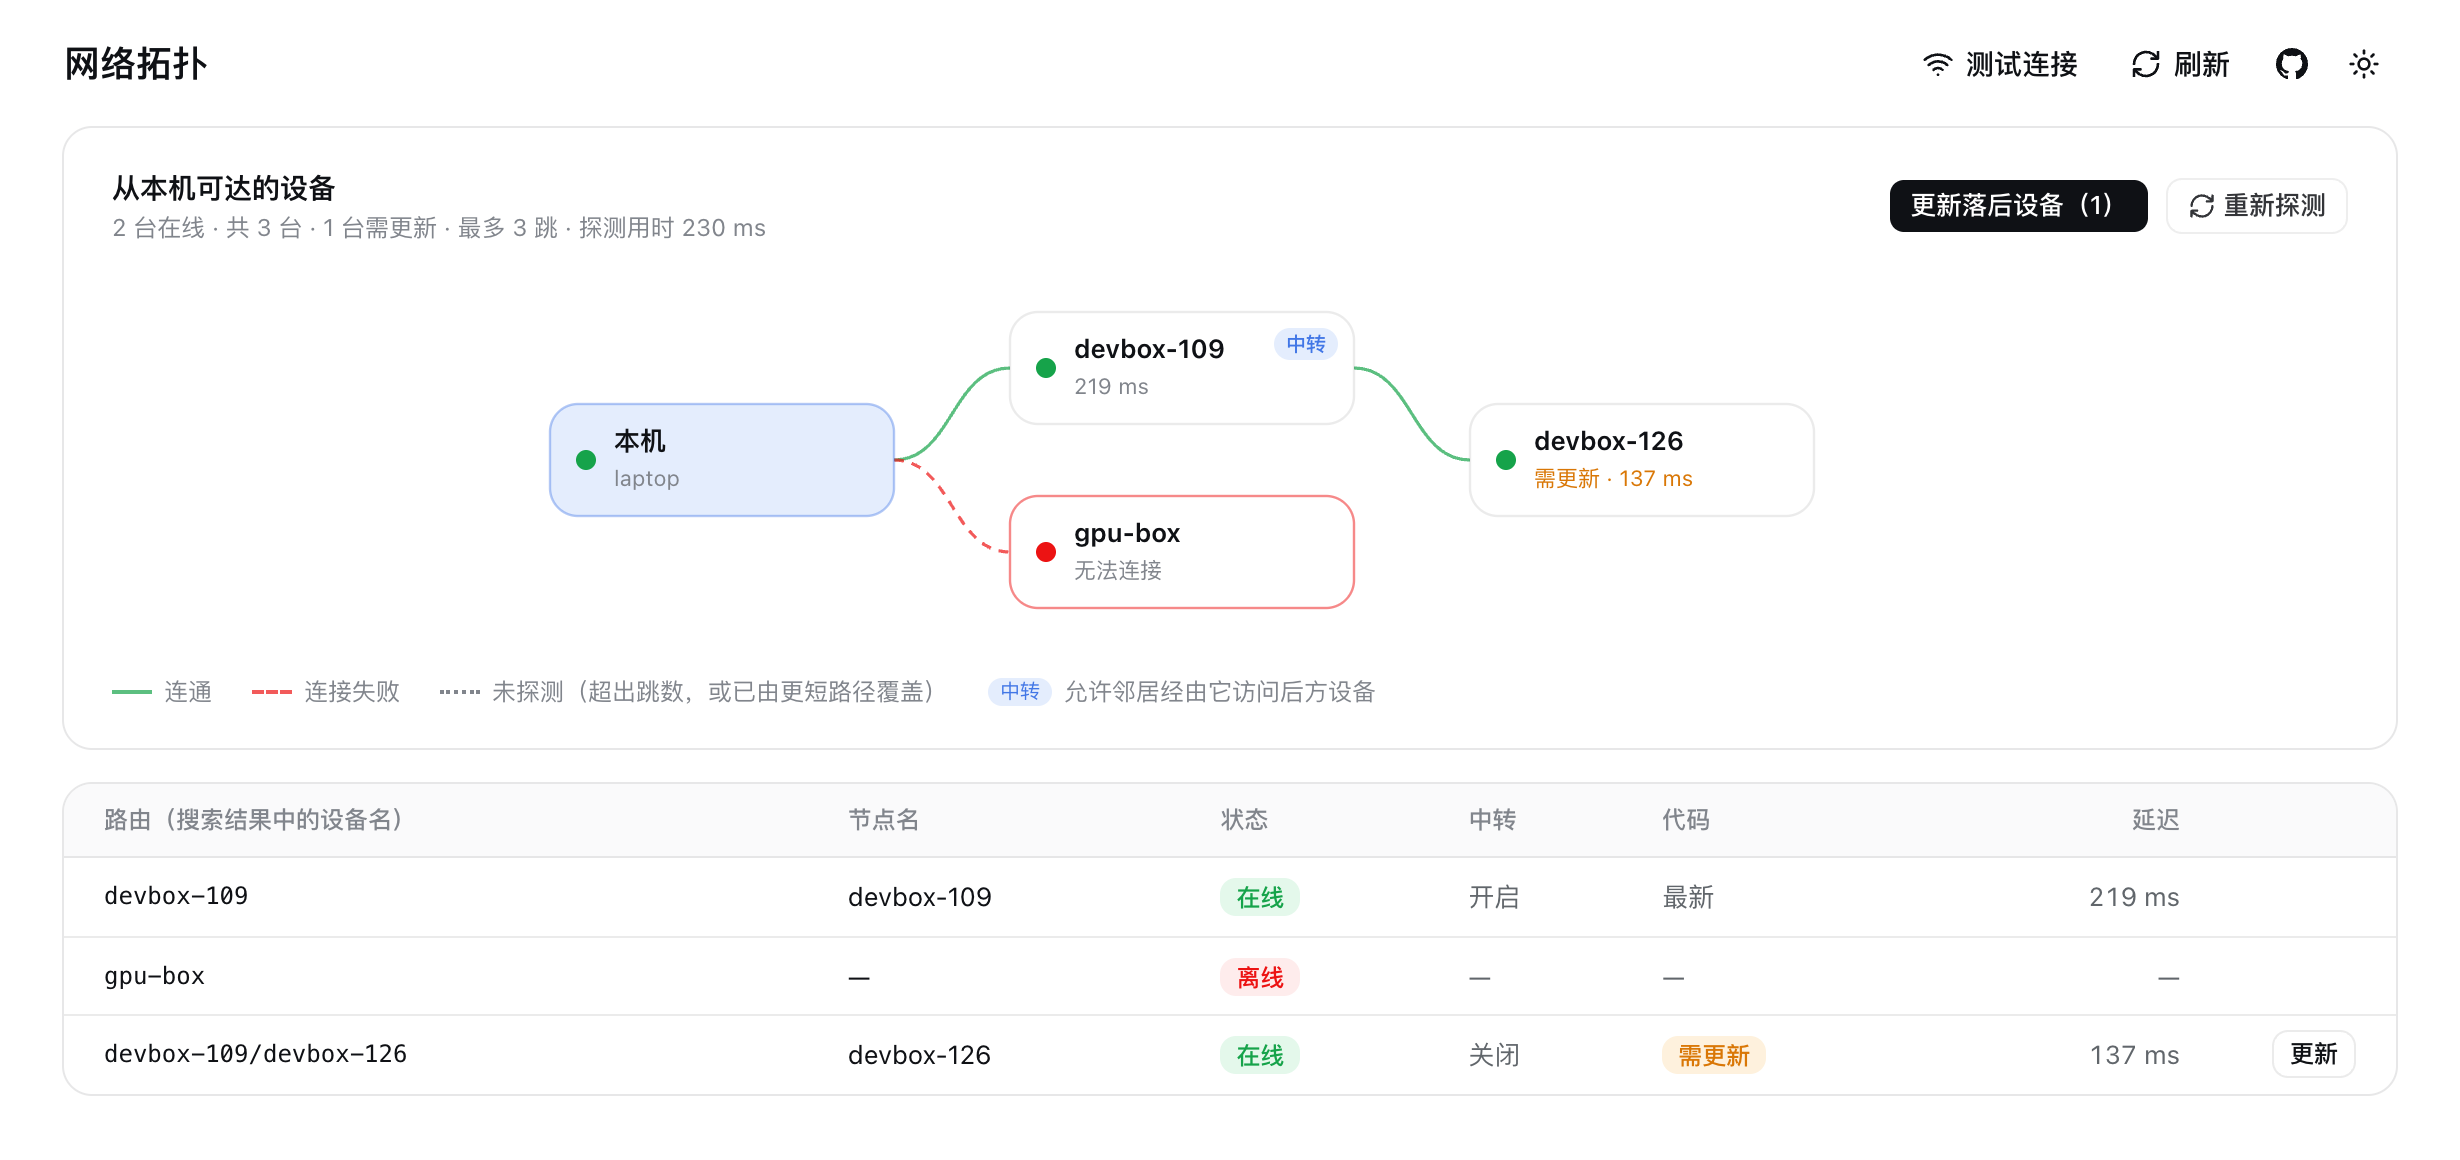
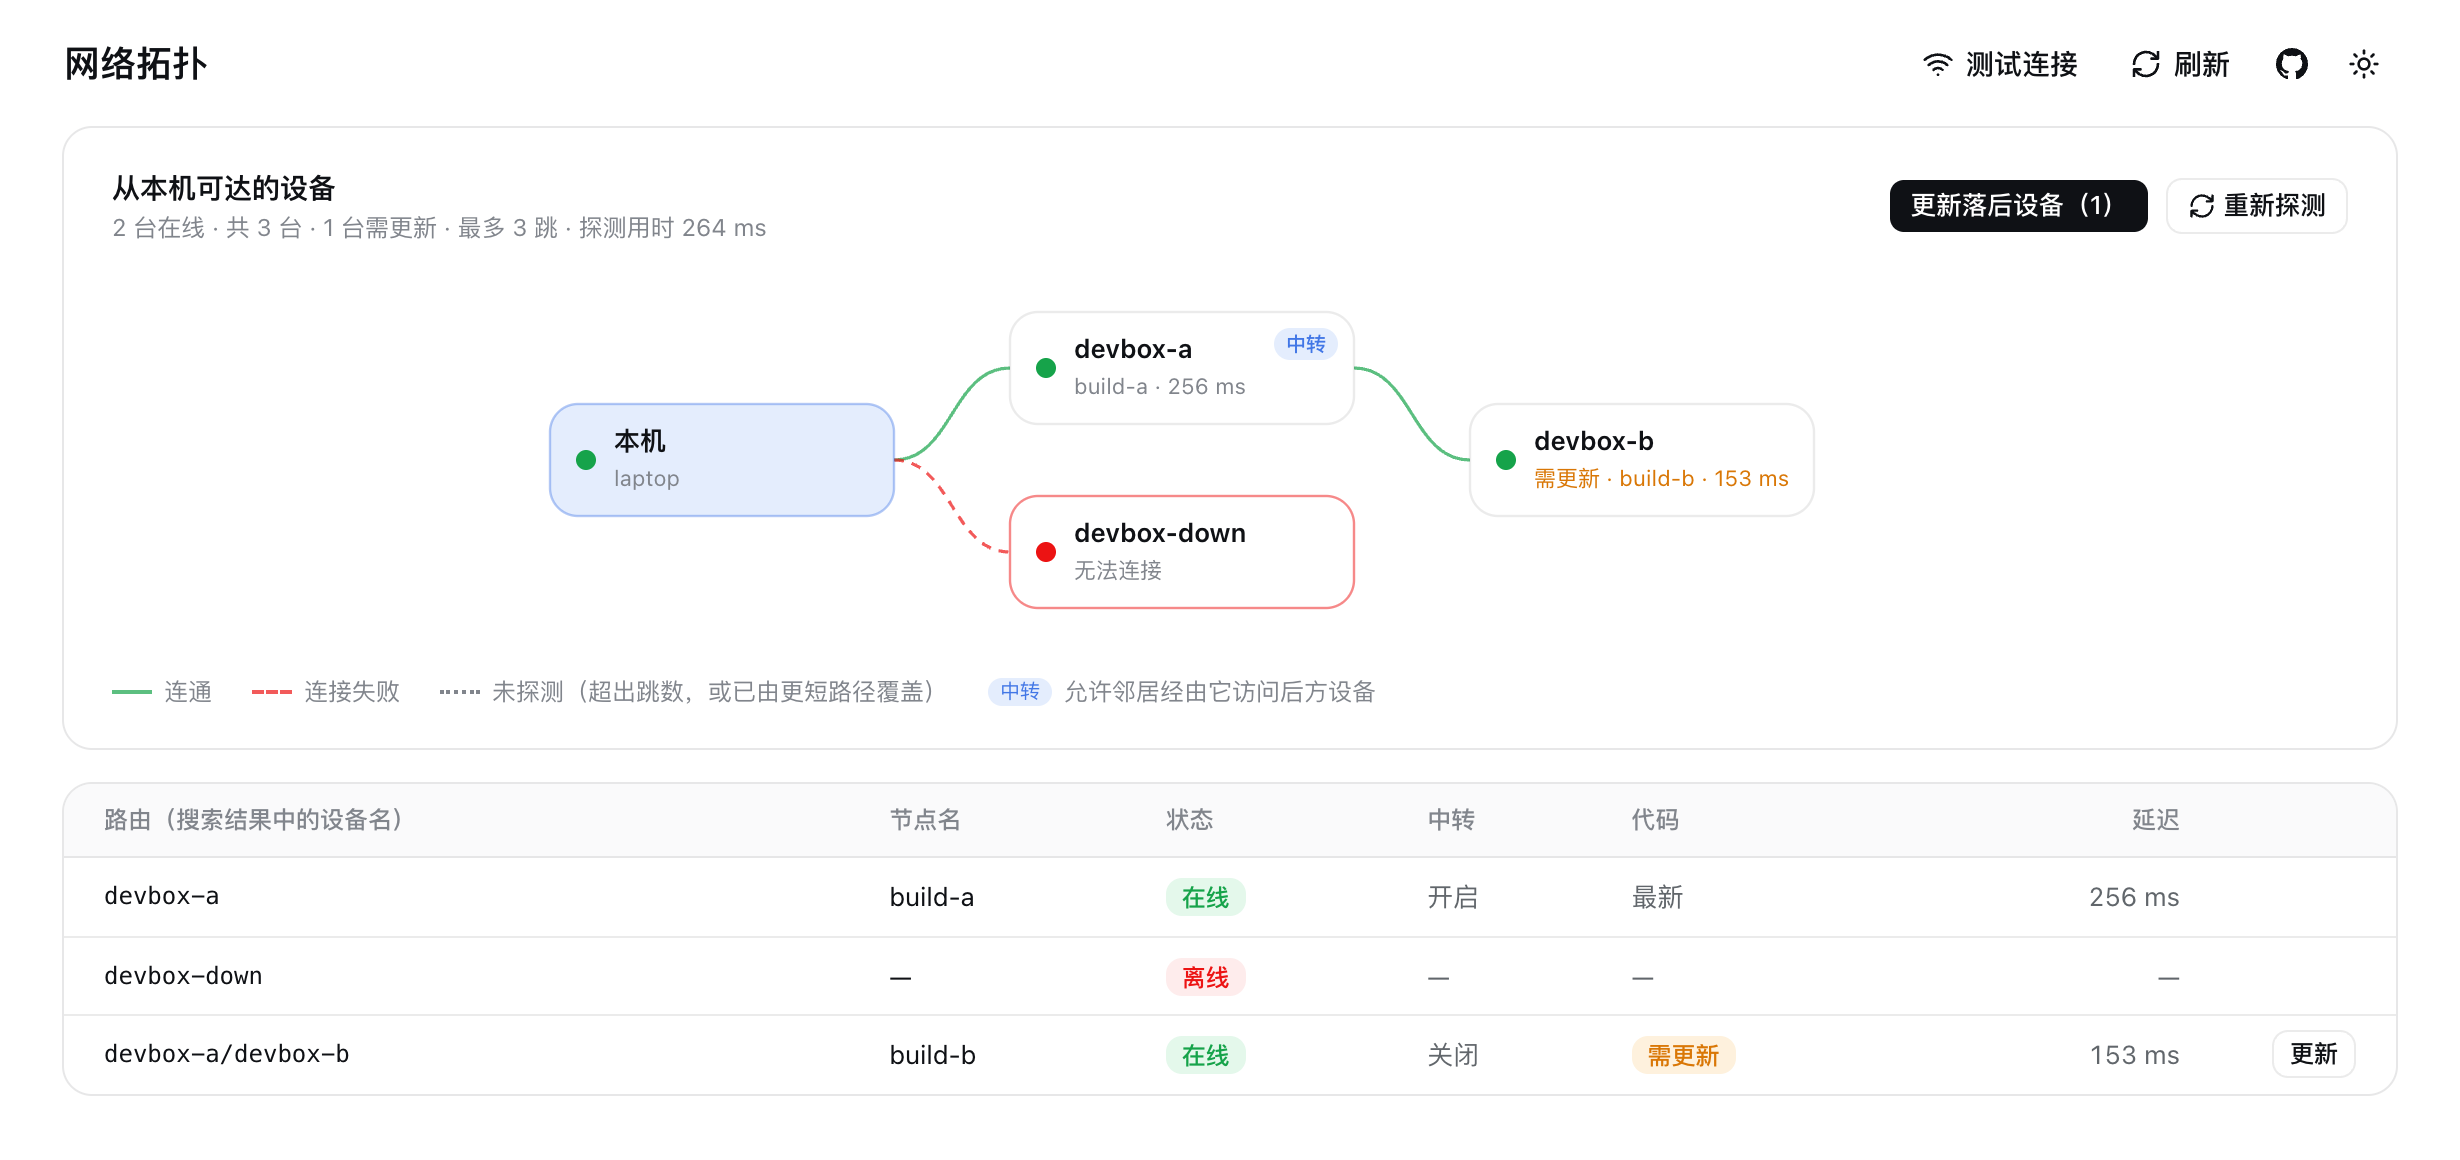
Use generic device names on the website and retake the topology screenshot
Replace devbox-109 and devbox-126 with devbox-a and devbox-b in the site
components and copy. docs/assets/topology.png is retaken from the demo mesh
that web/e2e/serve.mjs --mesh sets up, so it shows devbox-a, devbox-b and
devbox-down; the alt text follows.

diff --git a/site/src/components/topology.tsx b/site/src/components/topology.tsx
@@ -4,12 +4,12 @@ type N = { id: string; x: number; y: number; label: string; sub: string; relay?:
 
 const NODES: N[] = [
   { id: "laptop", x: 70, y: 165, label: "laptop", sub: "you are here", you: true },
-  { id: "d109", x: 300, y: 95, label: "devbox-109", sub: "forwards", relay: true },
+  { id: "da", x: 300, y: 95, label: "devbox-a", sub: "forwards", relay: true },
   { id: "mini", x: 300, y: 250, label: "mac-mini", sub: "direct link" },
-  { id: "gpu", x: 528, y: 40, label: "gpu-box", sub: "via devbox-109" },
-  { id: "d126", x: 528, y: 150, label: "devbox-126", sub: "via devbox-109" },
+  { id: "gpu", x: 528, y: 40, label: "gpu-box", sub: "via devbox-a" },
+  { id: "db", x: 528, y: 150, label: "devbox-b", sub: "via devbox-a" },
 ]
-const EDGES: [string, string][] = [["laptop", "d109"], ["laptop", "mini"], ["d109", "gpu"], ["d109", "d126"]]
+const EDGES: [string, string][] = [["laptop", "da"], ["laptop", "mini"], ["da", "gpu"], ["da", "db"]]
 const at = (id: string) => NODES.find((n) => n.id === id)!
 const W = 132
 const H = 52
@@ -17,7 +17,7 @@ const H = 52
 export function Topology() {
   return (
     <div className="min-w-0 rounded-2xl border border-neutral-200 bg-white p-6 dark:border-neutral-800 dark:bg-neutral-950">
-      <svg viewBox="0 0 600 290" className="w-full" role="img" aria-label="A search from the laptop reaches devbox-126 and gpu-box through devbox-109">
+      <svg viewBox="0 0 600 290" className="w-full" role="img" aria-label="A search from the laptop reaches devbox-b and gpu-box through devbox-a">
         {EDGES.map(([a, b]) => {
           const p = at(a)
           const q = at(b)
@@ -53,8 +53,8 @@ export function Topology() {
       </svg>
       <div className="mt-4 space-y-1.5 border-t border-neutral-200 pt-4 font-mono text-[12px] dark:border-neutral-800">
         {[
-          ["devbox-109/devbox-126", "codex", "clamp the delay after adding jitter"],
-          ["devbox-109/gpu-box", "codex", "--mem-fraction-static 0.88 → 0.80"],
+          ["devbox-a/devbox-b", "codex", "clamp the delay after adding jitter"],
+          ["devbox-a/gpu-box", "codex", "--mem-fraction-static 0.88 → 0.80"],
           ["mac-mini", "claude", "retry budget: 5 attempts from 200 ms"],
         ].map(([route, agent, text]) => (
           <div key={route} className="flex gap-3 truncate">

diff --git a/site/src/app/page.tsx b/site/src/app/page.tsx
@@ -20,7 +20,7 @@ const LOOP = [
 
 const TOPOLOGY = [
   ["Direct links and relays", "Each device lists only its neighbors. Turn on forwarding on a device and searches pass through it to the devices behind it."],
-  ["Routes you can follow", "Every hit carries its route, like devbox-109/devbox-126. Pass it back and reads travel the same path."],
+  ["Routes you can follow", "Every hit carries its route, like devbox-a/devbox-b. Pass it back and reads travel the same path."],
   ["Loop-free, deduplicated", "Stable node ids and a hop budget stop cycles; a device reached twice is reported once, via the shortest route."],
   ["Nothing central", "No server, no shared store. Queries and the messages you ask for travel; indexes and raw logs stay on their device."],
   ["Kept in step", "Upgrade one machine and it brings every reachable device to the same code, relays included."],
@@ -190,7 +190,7 @@ export default function Home() {
             </dl>
           </div>
           <div className="mt-10 max-w-2xl space-y-3">
-            <CopyCommand command={"mnemo remote add devbox-109\nssh devbox-109 mnemo node --forward on"} />
+            <CopyCommand command={"mnemo remote add devbox-a\nssh devbox-a mnemo node --forward on"} />
           </div>
         </Section>
 
@@ -202,7 +202,7 @@ export default function Home() {
             </div>
             <div className="self-start overflow-hidden rounded-2xl border border-neutral-200 shadow-xl shadow-neutral-900/5 dark:border-neutral-800">
               <picture>
-                <img src={asset("/img/topology.png")} alt="Topology view: the laptop reaches devbox-126 through devbox-109" className="w-full" />
+                <img src={asset("/img/topology.png")} alt="Topology view: the laptop reaches devbox-b through devbox-a" className="w-full" />
               </picture>
             </div>
           </div>

diff --git a/site/src/components/agent-transcript.tsx b/site/src/components/agent-transcript.tsx
@@ -12,15 +12,15 @@ export function AgentTranscript() {
         <span className="text-white">sglang OOMs on the GPU box again. What did we change last time?</span>
         {"\n\n"}
         <Call n="search_sessions" args={'"sglang oom"'} />
-        <Dim>{"           3 hits · codex · devbox-109/gpu-box · Sep 22\n"}</Dim>
+        <Dim>{"           3 hits · codex · devbox-a/gpu-box · Sep 22\n"}</Dim>
         <Dim>{"                    claude · local · Sep 18\n\n"}</Dim>
-        <Call n="get_context" args={'hit 1, host="devbox-109/gpu-box"'} />
+        <Call n="get_context" args={'hit 1, host="devbox-a/gpu-box"'} />
         <Dim>{"           --mem-fraction-static 0.88 → 0.80\n"}</Dim>
         <Dim>{"           \"OOM gone at batch 64; throughput −3%\"\n\n"}</Dim>
         <span className="text-brand">claude ▸ </span>
         <span className="text-white">
           Codex lowered --mem-fraction-static to 0.80 on gpu-box on Sep 22{"\n"}
-          {"         "}(reached through devbox-109). Your launch script still says 0.88.{"\n"}
+          {"         "}(reached through devbox-a). Your launch script still says 0.88.{"\n"}
           {"         "}Want me to apply the same change?
         </span>
       </pre>

diff --git a/site/src/components/grep-vs-mnemo.tsx b/site/src/components/grep-vs-mnemo.tsx
@@ -10,9 +10,9 @@ const NOISE = [
 ]
 
 const HITS = [
-  { agent: "codex", where: "devbox-126", when: "Sep 26", text: "clamp the delay after adding jitter so retry never exceeds the cap" },
+  { agent: "codex", where: "devbox-b", when: "Sep 26", text: "clamp the delay after adding jitter so retry never exceeds the cap" },
   { agent: "claude", where: "local", when: "Sep 24", text: "retry budget: 5 attempts, exponential backoff from 200 ms" },
-  { agent: "pi", where: "devbox-109", when: "Sep 19", text: "flaky retry test: seed the jitter in CI" },
+  { agent: "pi", where: "devbox-a", when: "Sep 19", text: "flaky retry test: seed the jitter in CI" },
 ]
 
 export function GrepVsMnemo() {

diff --git a/docs/multi-device.md b/docs/multi-device.md
@@ -56,7 +56,7 @@ Full mesh still works and needs no relays: run `remote add` on each device point
 The **Topology** view maps what this device can reach: each device's route, name, relay policy and latency, with unreachable ones marked. It probes the same paths a search takes (only through relays, within the hop budget), so it never shows more than a search could reach. Relays report their neighbors' names, never their SSH targets.
 
 <p align="center">
-  <img alt="Dashboard topology view: the laptop reaches devbox-126 through devbox-109, which relays; gpu-box is offline" src="assets/topology.png" width="880">
+  <img alt="Dashboard topology view: the laptop reaches devbox-b through devbox-a, which relays; devbox-down is offline" src="assets/topology.png" width="880">
 </p>
 
 On the **Devices** page you can rename this device and switch its relay, and switch relaying on a direct neighbor over its SSH link. Turning a relay on asks for confirmation first.
